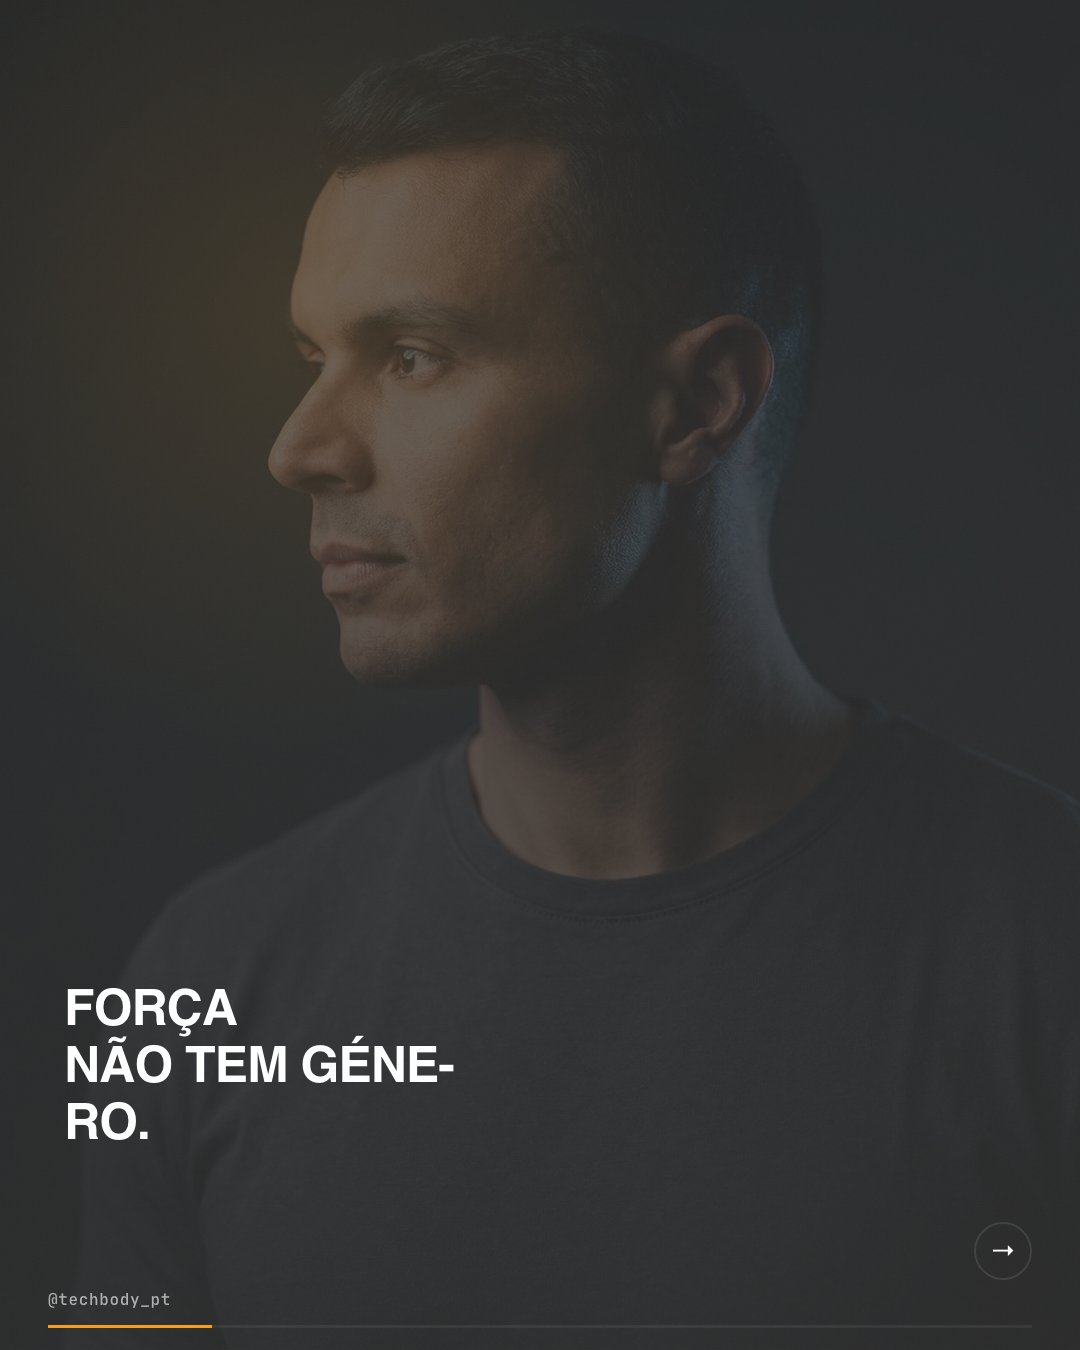
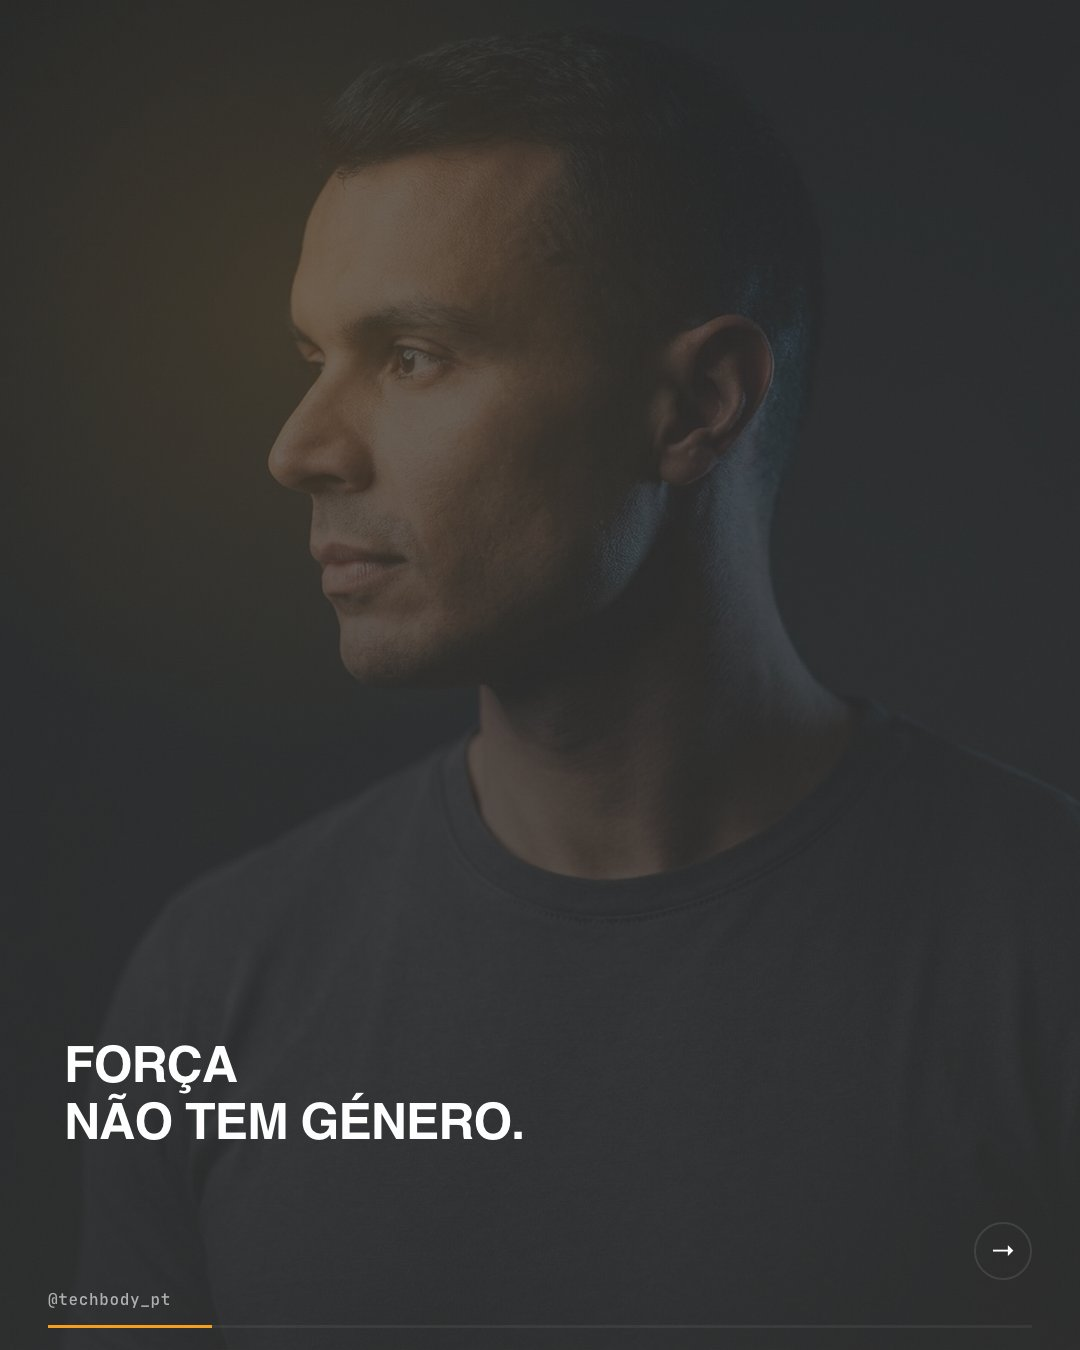
fix(c07): apagar imagem proibida do git + regenerar screenshots + SW bump
- magnific_c1-fundo-escuro-com-silhu_2964294577.jpg/.png REMOVIDOS do git
- c07 agora usa magnific_a5-pure-profile-editoria (confirmado no live site)
- Screenshots regenerados
- SW cache bumped para forçar refresh do browser

Changed region(s): [[0.0611, 0.7156, 0.4889, 0.8711]]

diff --git a/public/aprovacao-luiz-202605/js/config.js b/public/aprovacao-luiz-202605/js/config.js
@@ -35,4 +35,4 @@ export const AUTH_ENABLED = false;
 // Versão do app. Comparada periodicamente contra /version.txt no servidor.
 // Se divergir, o badge muda para "🔄 Nova versão" e o user sabe que está
 // numa sessão desactualizada. Bump em cada deploy importante.
-export const APP_VERSION = "20260629-1120";
+export const APP_VERSION = "20260629-1131";

diff --git a/public/aprovacao-tb-202605/js/config.js b/public/aprovacao-tb-202605/js/config.js
@@ -35,4 +35,4 @@ export const AUTH_ENABLED = false;
 // Versão do app. Comparada periodicamente contra /version.txt no servidor.
 // Se divergir, o badge muda para "🔄 Nova versão" e o user sabe que está
 // numa sessão desactualizada. Bump em cada deploy importante.
-export const APP_VERSION = "20260629-1120";
+export const APP_VERSION = "20260629-1131";

diff --git a/public/aprovacao-luiz-202605/sw.js b/public/aprovacao-luiz-202605/sw.js
@@ -12,7 +12,7 @@
 // Resultado: a partir da segunda visita o user nunca mais vê versão
 // antiga, mesmo sem clear cache manual.
 
-const CACHE_NAME = 'pf-aprovacao-fallback-v90';
+const CACHE_NAME = 'pf-aprovacao-fallback-v92';
 
 // Activa imediatamente sem esperar que tabs abertas fechem.
 self.addEventListener('install', (event) => {

diff --git a/public/aprovacao-tb-202605/sw.js b/public/aprovacao-tb-202605/sw.js
@@ -12,7 +12,7 @@
 // Resultado: a partir da segunda visita o user nunca mais vê versão
 // antiga, mesmo sem clear cache manual.
 
-const CACHE_NAME = 'pf-aprovacao-fallback-v91';
+const CACHE_NAME = 'pf-aprovacao-fallback-v93';
 
 // Activa imediatamente sem esperar que tabs abertas fechem.
 self.addEventListener('install', (event) => {

diff --git a/public/aprovacao-luiz-202605/index.html b/public/aprovacao-luiz-202605/index.html
@@ -2,8 +2,8 @@
 <html lang="pt-PT">
 <head>
 <meta charset="utf-8" />
-<meta name="viewport" content="20260629-1105" />
-<meta name="app-version" content="20260629-1120" />
+<meta name="viewport" content="20260629-1131" />
+<meta name="app-version" content="20260629-1131" />
 <title>Aprovação · Conteúdo</title>
 
 <script>

diff --git a/public/aprovacao-tb-202605/index.html b/public/aprovacao-tb-202605/index.html
@@ -2,8 +2,8 @@
 <html lang="pt-PT">
 <head>
 <meta charset="utf-8" />
-<meta name="viewport" content="20260629-1105" />
-<meta name="app-version" content="20260629-1120" />
+<meta name="viewport" content="20260629-1131" />
+<meta name="app-version" content="20260629-1131" />
 <title>Aprovação · Conteúdo</title>
 
 <script>
